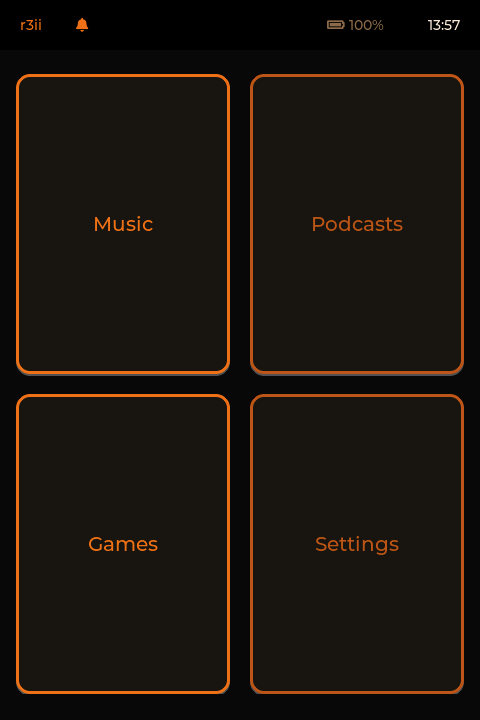
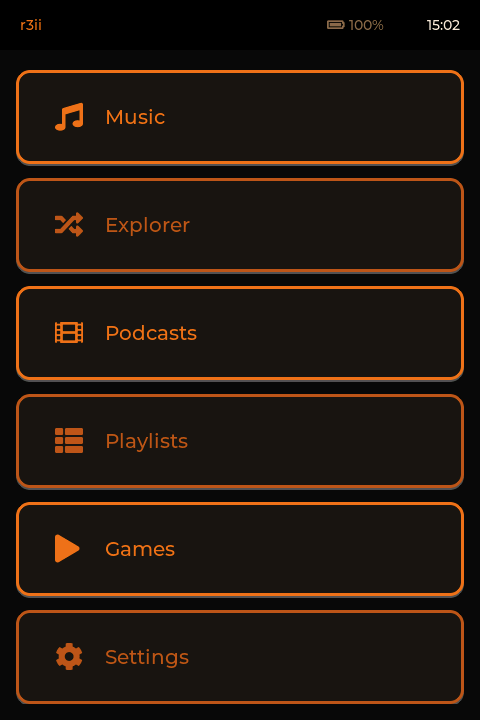
docs: README up to date — Explorer, Drumfolk act II, radio/browsing, controls, build, tests
New screenshots from the device (home with its six tiles, Explorer genres / subgenres /
artist card, Drumfolk world map / briefing / boss fight); Explorer keeping its state; power
double press; Drumfolk described in full; card layout (Playlists/, Genres.txt); build_drum.sh;
host tests and Drumfolk's --shot / demo mode; repo layout.

diff --git a/README.md b/README.md
@@ -2,7 +2,8 @@
 
 A fast, minimalist music-player firmware UI for the **HiBy R3 Pro II** DAP. It replaces
 the stock `hiby_player` interface with a clean, touch- and button-driven player that boots
-straight to your library, with Bluetooth, games and a music server built in.
+straight to your library, with genre-based discovery, Bluetooth, games and a music server
+built in.
 
 Built from scratch in C on **LVGL**, running as static MIPS binaries directly on the
 device's framebuffer. No HiBy code is included — the firmware interop was reverse-engineered
@@ -25,6 +26,10 @@ for this one model.
 | <img src="docs/screenshots/settings.png" width="220"> | <img src="docs/screenshots/watchface.png" width="220"> | |
 | **Playlists & nearby devices** | **Import a shared playlist** | **New playlist** |
 | <img src="docs/screenshots/playlists.png" width="220"> | <img src="docs/screenshots/sharing.png" width="220"> | <img src="docs/screenshots/newplaylist.png" width="220"> |
+| **Explorer: genres** | **Explorer: subgenres** | **Explorer: artist card** |
+| <img src="docs/screenshots/explorer.png" width="220"> | <img src="docs/screenshots/explorer_subgenres.png" width="220"> | <img src="docs/screenshots/explorer_card.png" width="220"> |
+| **Drumfolk: world map** | **Drumfolk: briefing** | **Drumfolk: boss fight** |
+| <img src="docs/screenshots/drumfolk_map.png" width="220"> | <img src="docs/screenshots/drumfolk_brief.png" width="220"> | <img src="docs/screenshots/drumfolk_boss.png" width="220"> |
 
 ---
 
@@ -38,12 +43,15 @@ for this one model.
   MP4 cover), a **seekable progress bar**, play/pause, and **album auto-advance**.
 - **Resume** the last track across power-off.
 - Formats: **MP3, FLAC, WAV, M4A/AAC** (minimp3 / dr_flac / dr_wav / faad2+minimp4).
-- Dark theme (black + orange), retro-styled home menu: **Music · Podcasts · Games · Settings**.
+- Dark theme (black + orange), home menu: **Music · Explorer · Podcasts · Playlists · Games ·
+  Settings**.
+- After 30 s idle: Now Playing if music plays, else an analog **watch face**; the screen
+  turns off on its own (Settings › Display) while music keeps playing.
 - **Podcasts** tab browses a separate `Others/` folder on the card.
 
 **Controls**
-- **Power button:** short press → Now Playing; press again → back; **long press → power off**
-  (saves the current track to resume on next boot).
+- **Power button:** short press → Now Playing; press again → back; **double press → Home**;
+  **long press → power off** (saves the current track to resume on next boot).
 - **Touch lock:** press **Power + Volume** together (either volume key, either order) to lock
   the touchscreen — touches are ignored and can't wake the screen, so it's safe in a pocket,
   while the hardware keys keep working. A padlock shows in the corner; the same combo unlocks.
@@ -71,8 +79,11 @@ for this one model.
   artist** (same subgenre, then same genre, close in era), **Different artist**, and **Keep**
   (adds the album to a `Discovered` playlist).
 - **Explorer radio:** when an album started from Explorer ends, an album by a similar artist
-  follows. **Double-press ▶▶** to jump to it right away; the orange button on Now Playing
-  returns to the artist card.
+  follows. **Double-press ▶▶** to jump to it right away; the orange button (or ← back) on Now
+  Playing returns to the artist card, and **Browse this album** opens its track list —
+  picking a song there keeps the radio going.
+- Explorer **remembers where you were**: the tile reopens the current artist card, and the
+  radio carries on after a restart if its album is the one resumed.
 - Genres come from the files' tags, cleaned up (`Punkrock` = `Punk Rock`, `métal`, `B.O.`…);
   each artist gets the genre most of its tracks have. Fix or complete them in `Genres.txt`
   at the root of the card:
@@ -109,12 +120,17 @@ for this one model.
 - **Doom** (`doomgeneric`) — supply your own `doom.wad` / `doom2.wad`.
 - **Blockfall** (Tetris-style), **Brickstorm** (breakout), **Coil** (snake-style),
   **Sapper** (minesweeper-style), all from scratch.
-- **Drumfolk**, a rhythm-marching battle game: drum commands on the beat (or the beat of your
-  own songs) to lead a squad through 12 missions on a world map, two acts and six lands.
-  Gear beats foes (crush cracks armour, fire burns wood, only ranged hits flyers…), bosses
-  telegraph their blows, and in fever the squad dances on the beat. Rescue missions free caged
-  prisoners: they fight with you on the spot and win a soldier slot for good (squad of 4 → 8);
-  each mission sets how many march.
+- **Drumfolk**, a rhythm-marching battle game (from scratch): drum four-beat commands —
+  MARCH, STRIKE, GUARD, RETREAT, RALLY, and the SPECIAL in super fever — on the beat of a
+  built-in drum track or **of your own songs** (the beat is detected), with the touch pads,
+  the R3's keys or a Bluetooth controller (landscape).
+  - **12 missions on a world map**, two acts and six lands (forest, desert, snow, volcano,
+    swamp, peaks), each with forts, a sub-boss and a boss that telegraphs its blows.
+  - **Gear beats foes:** crush cracks armour, fire burns wood, only ranged units hit flyers,
+    missiles glance off shieldbearers, blastcaps explode — 5 classes, 30 weapons, 9 shields.
+  - **Squads of up to 8:** rescue missions free caged prisoners who fight with you on the spot
+    and win a soldier slot for good (4 → 8); each mission sets how many march.
+  - In fever the squad **dances on the beat**; a rhythm test measures each input's latency.
 - **Game Boy** emulator (`Peanut-GB`) — supply your own ROMs.
 - **Game Boy Advance** emulator (`gpSP` with its MIPS dynarec, full speed) — your own ROMs in
   `Games/GBA`, optional `gba_bios.bin`; landscape with a controller, save + resume on quit.
@@ -150,6 +166,8 @@ Put your content on the microSD like this:
 /Games/GameBoy/*.gb                      # your Game Boy ROMs
 /Games/GBA/*.gba                         # your GBA ROMs (+ optional gba_bios.bin)
 /Fonts/*.ttf                             # optional: font for CJK names
+/Playlists/*.m3u                         # your playlists + Favorites / Discovered (made by the player)
+/Genres.txt                              # optional: genre corrections for Explorer (see above)
 ```
 
 Album art is read from the audio files' embedded tags (no separate cover files needed).
@@ -166,10 +184,17 @@ sh scripts/build.sh        # the player UI + audio  -> build/r3player
 sh scripts/build_doom.sh   # Doom                   -> build/r3doom
 sh scripts/build_gb.sh     # Game Boy               -> build/r3gb
 sh scripts/build_gba.sh    # Game Boy Advance       -> build/r3gba
-sh scripts/build_srv.sh    # music server           -> build/r3srv
+sh scripts/build_drum.sh   # Drumfolk               -> build/r3drum
+sh scripts/build_srv.sh    # music server + radio   -> build/r3srv
 ```
 
 No make/cmake needed. All third-party code is vendored under `vendor/`.
+
+Host tests (plain `gcc` on a PC) live in `tests/`: game rules and an autopilot that plays every
+Drumfolk mission (`drum_game_test.c`), the genre clean-up and Explorer on a real library index
+(`genre_test.c`, `explore_test.c`), and the other games' cores; each file's header has its
+command line. `r3drum --shot <scene>` renders Drumfolk screens to an image, and
+`R3DRUM_DEMO=1` makes it drum by itself (testing on the device).
 
 ---
 
@@ -214,12 +239,14 @@ slot (B) is left intact, so a stock restore is always available.
 ## Repo layout
 
 ```
-src/ui/      player UI (main, audio, bt, pad, cover, games, settings…)
-src/doom/    Doom backend        src/gb/   Game Boy frontend
-src/net/     r3srv music server  src/bringup/ dev/bring-up helpers
-scripts/     build.sh + per-component build scripts + build_upt.sh
+src/ui/      player UI (main, audio, bt, pad, cover, smartmix index, genre + explore, games…)
+src/drum/    Drumfolk            src/doom/ Doom backend
+src/gb/      Game Boy frontend   src/gba/  Game Boy Advance frontend
+src/net/     r3srv music server + radio     src/bringup/ dev/bring-up helpers (r3tap…)
+scripts/     build scripts, build_upt.sh, lang.py (translations), genres_mb.py (MusicBrainz)
+lang/        translations (.po)  tests/    host tests
 device/      modified launcher (hiby_player.sh)
-docs/        DEVICE_R3PROII.md (hardware), PERSIST.md (install), PLAN.md
+docs/        DEVICE_R3PROII.md (hardware), PERSIST.md (install), TRANSLATING.md, PLAN.md
 vendor/      third-party libraries (see Credits)
 ```
 
